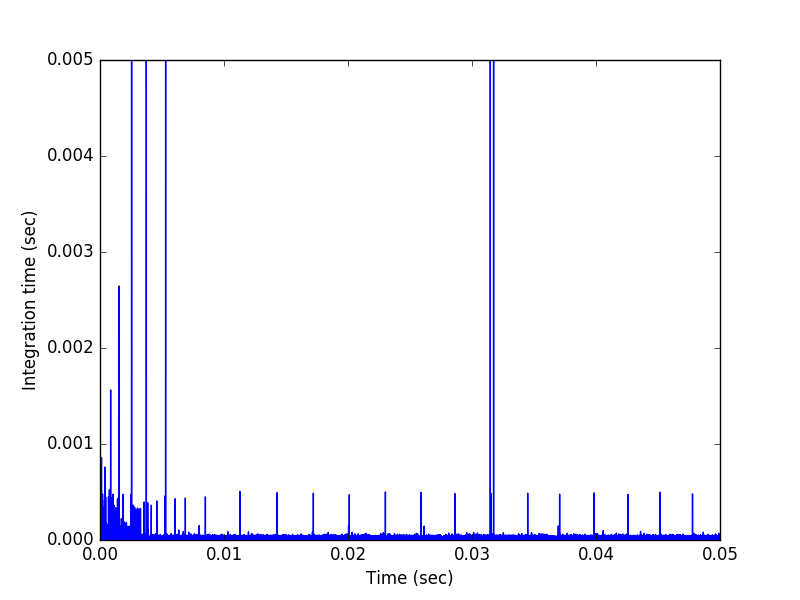
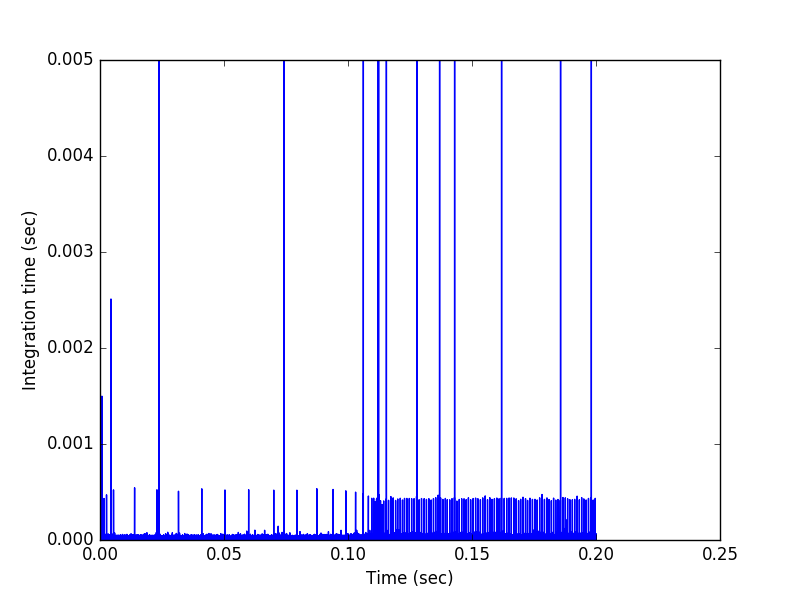
Reran plots.

Changed region(s): [[0.125, 0.09, 0.9062, 0.93]]

diff --git a/Stiffness_CO_H2_rogers_6_21_17_validation.py b/Stiffness_CO_H2_rogers_6_21_17_validation.py
@@ -163,12 +163,12 @@ normweights = wi, wj
 # Define the range of the computation
 dt = 1.e-8
 tstart = 0
-tstop = 0.05
+tstop = 0.2
 tlist = np.arange(tstart, tstop + 0.5 * dt, dt)
 
 # ODE Solver parameters
-abserr = 1.0e-16
-relerr = 1.0e-13
+abserr = 8.0e-15
+relerr = 1.0e-12
 
 # Load the initial conditions from the PaSR files
 pasrarrays = []
